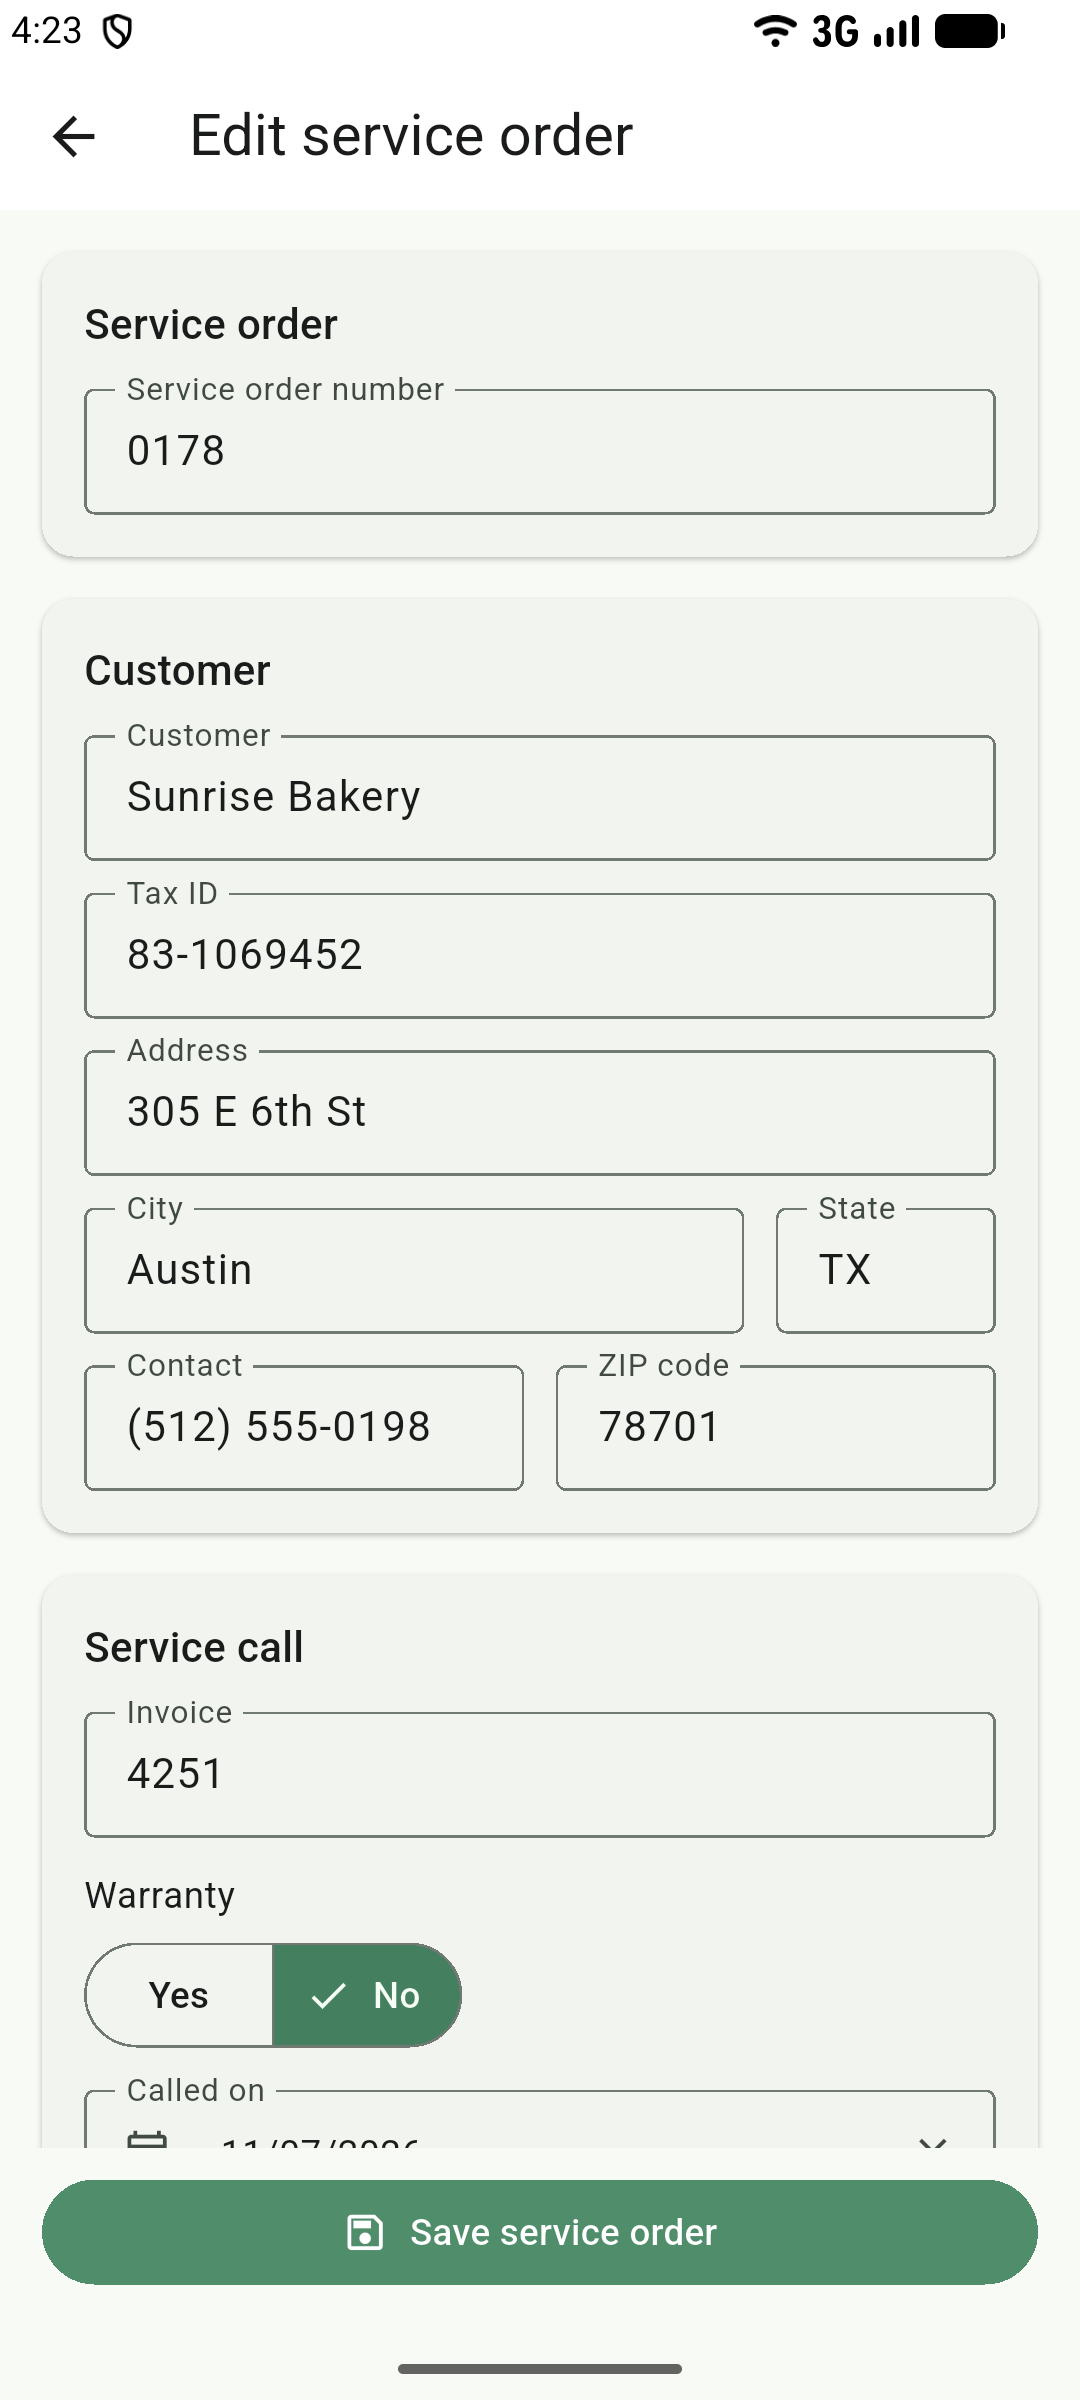
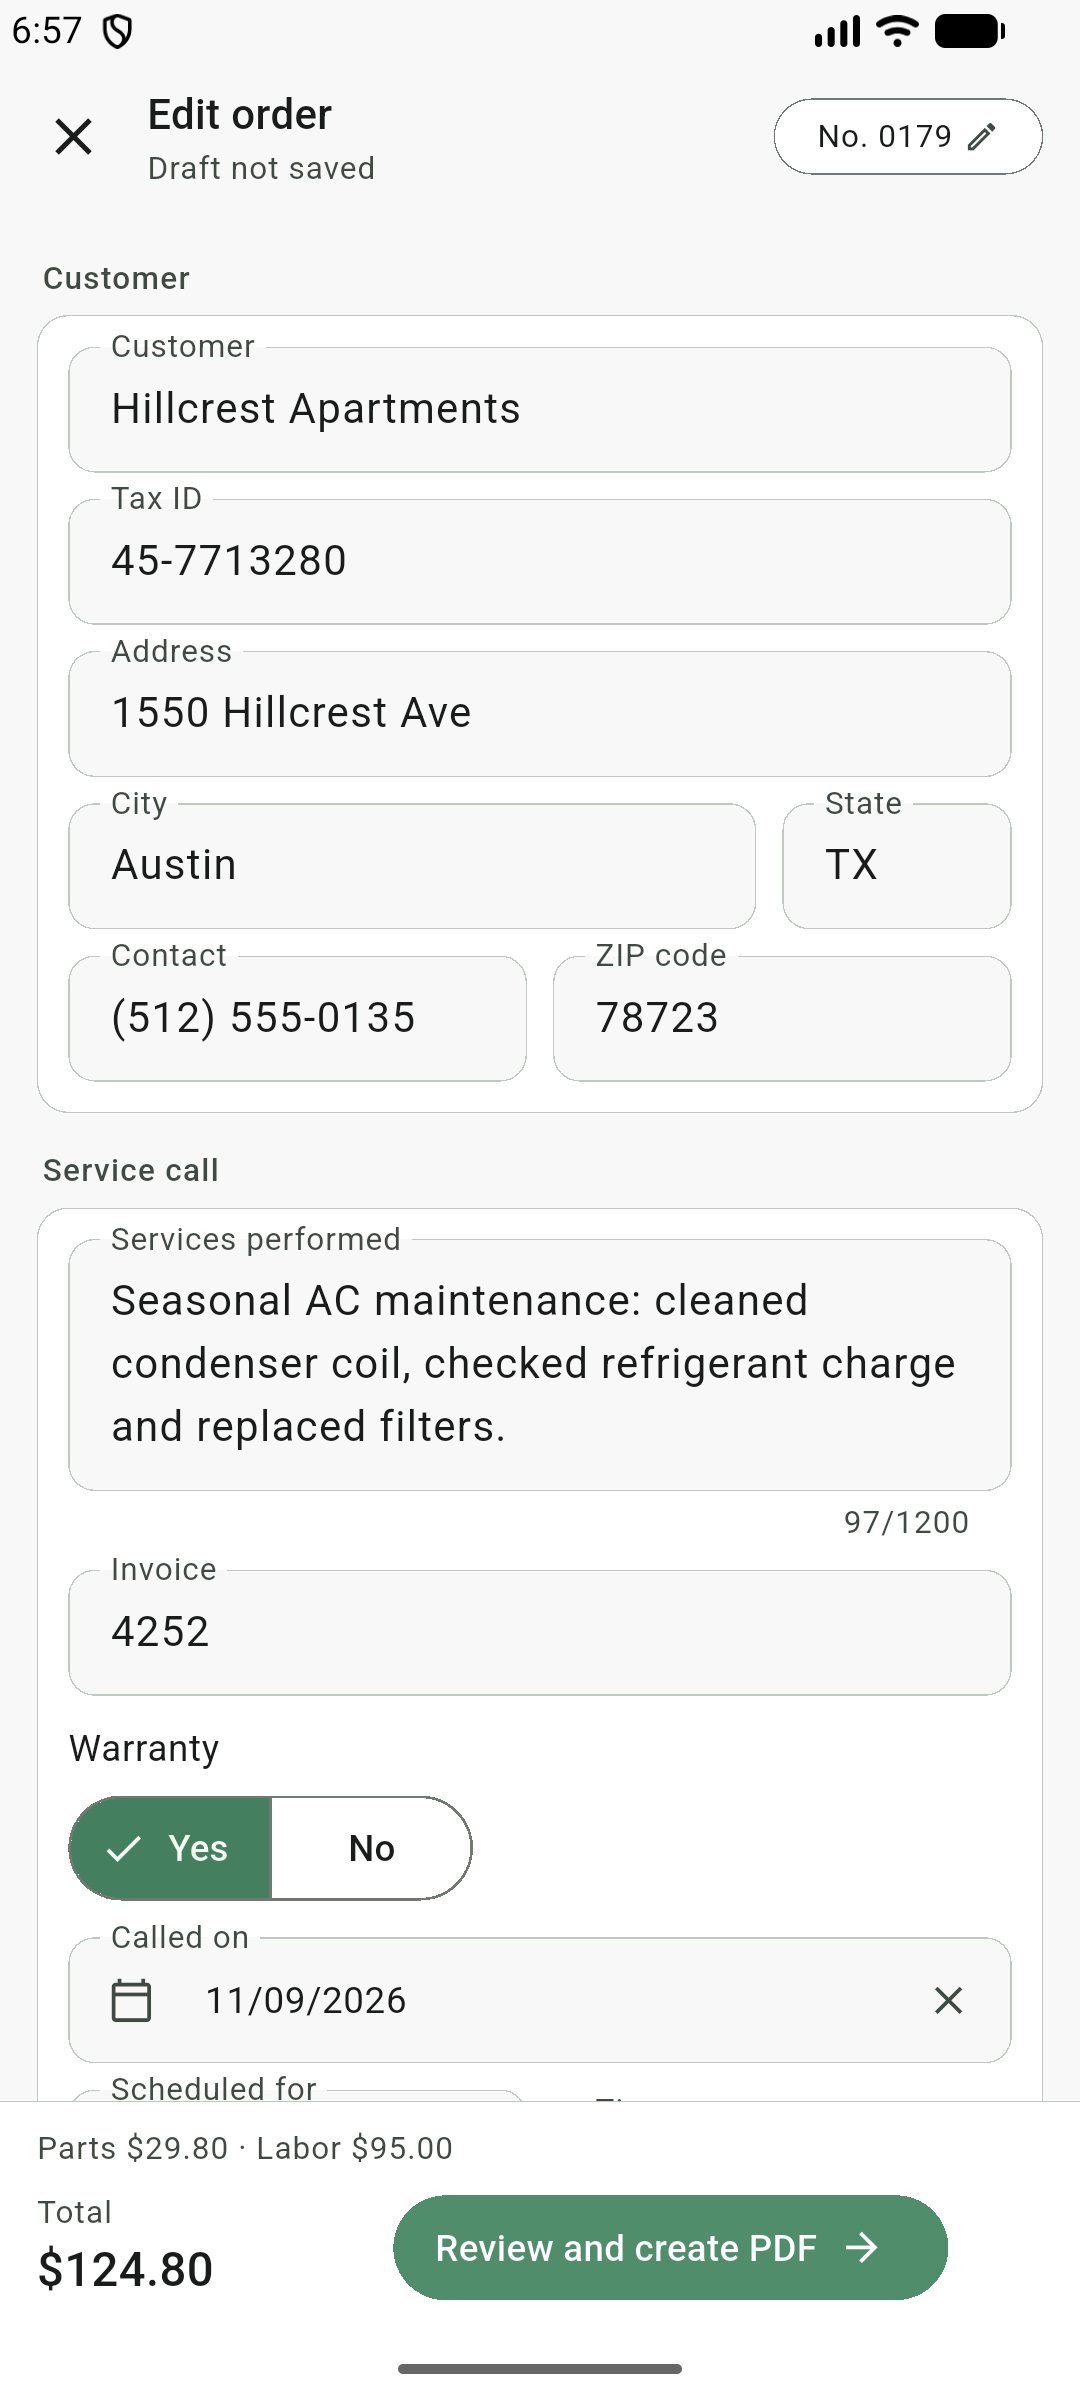
docs: update README.md

diff --git a/README.md b/README.md
@@ -26,7 +26,7 @@
 
 <p align="center">
   <img src="docs/screenshots/history.png" alt="History" width="200">
-  <img src="docs/screenshots/form.png" alt="New service order" width="200">
+  <img src="docs/screenshots/form.png" alt="Service order form" width="200">
   <img src="docs/screenshots/preview.png" alt="PDF preview" width="200">
   <img src="docs/screenshots/settings.png" alt="Settings" width="200">
 </p>
@@ -35,12 +35,14 @@
 
 - **Service orders**: customer, service call, parts with live totals and notes, stored on the phone
   (SQLite). No account, no server, works offline.
-- **History** grouped by day, with search by customer or number.
+- **History** grouped by day, with totals for today and the month, search by customer or number and
+  quick filters (7 days, this month).
 - **A4 PDF** following a paper template; the parts table continues on the next page when needed.
 - **Share** as PDF or image (WhatsApp), or print.
 - **Company data and logo** editable in the app; only what is filled in is printed on the header.
 - **Portuguese and English**, following the phone or chosen in the app. Regional format (currency,
   dates, times) is a separate setting, so English with Brazilian reais works, and vice versa.
+- **Light and dark themes**, following the phone or chosen in the app.
 - **In-app updates** from GitHub Releases.
 - **White-label**: each client gets its own app id, name, colors, logo, icon and splash.
 
@@ -59,7 +61,7 @@ flutter run --flavor standard --dart-define-from-file=clients/default/config.jso
 ```
 
 `standard` is the generic app: green theme, no logo and an example company that follows the app
-language. Replace it in **Settings → Company**.
+language. Replace it in **Settings**, on the company card at the top.
 
 Run the tests with:
 
@@ -118,13 +120,13 @@ channel, so the generic app and each client update independently. Release signin
 
 ```
 lib/
-├── app/            # app shell, navigation, dependency wiring
+├── app/            # app shell, navigation, theme, dependency wiring
 ├── core/           # config, database, formatting, preferences, storage
 ├── features/
 │   ├── service_order/  # form and SQLite repository
-│   ├── history/        # list grouped by day
+│   ├── history/        # list grouped by day, summary, search and filters
 │   ├── document/       # PDF layout, preview, share and print
-│   ├── settings/       # company data, logo, language and format
+│   ├── settings/       # company data, logo, language, format and theme
 │   └── update/         # GitHub Releases check and install
 └── l10n/           # Portuguese (template) and English strings
 ```
